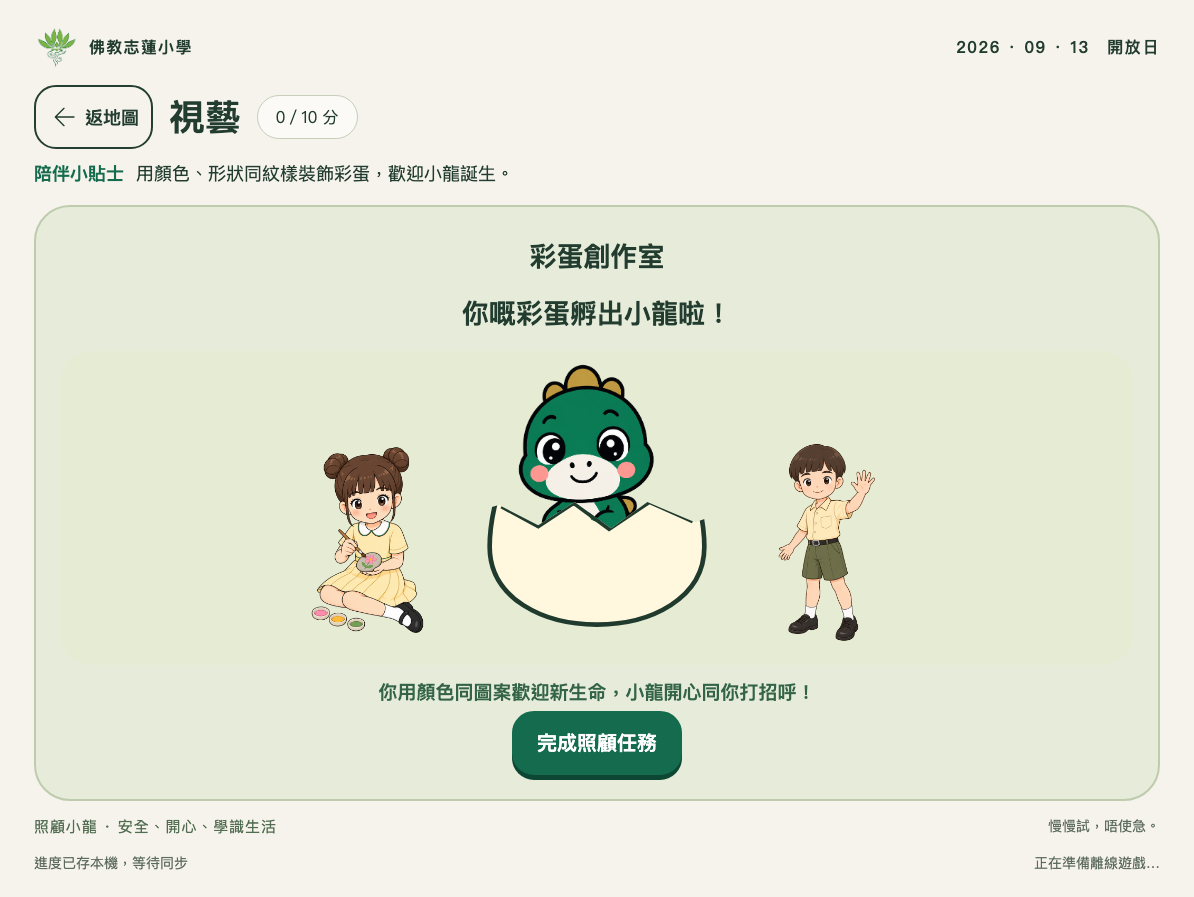
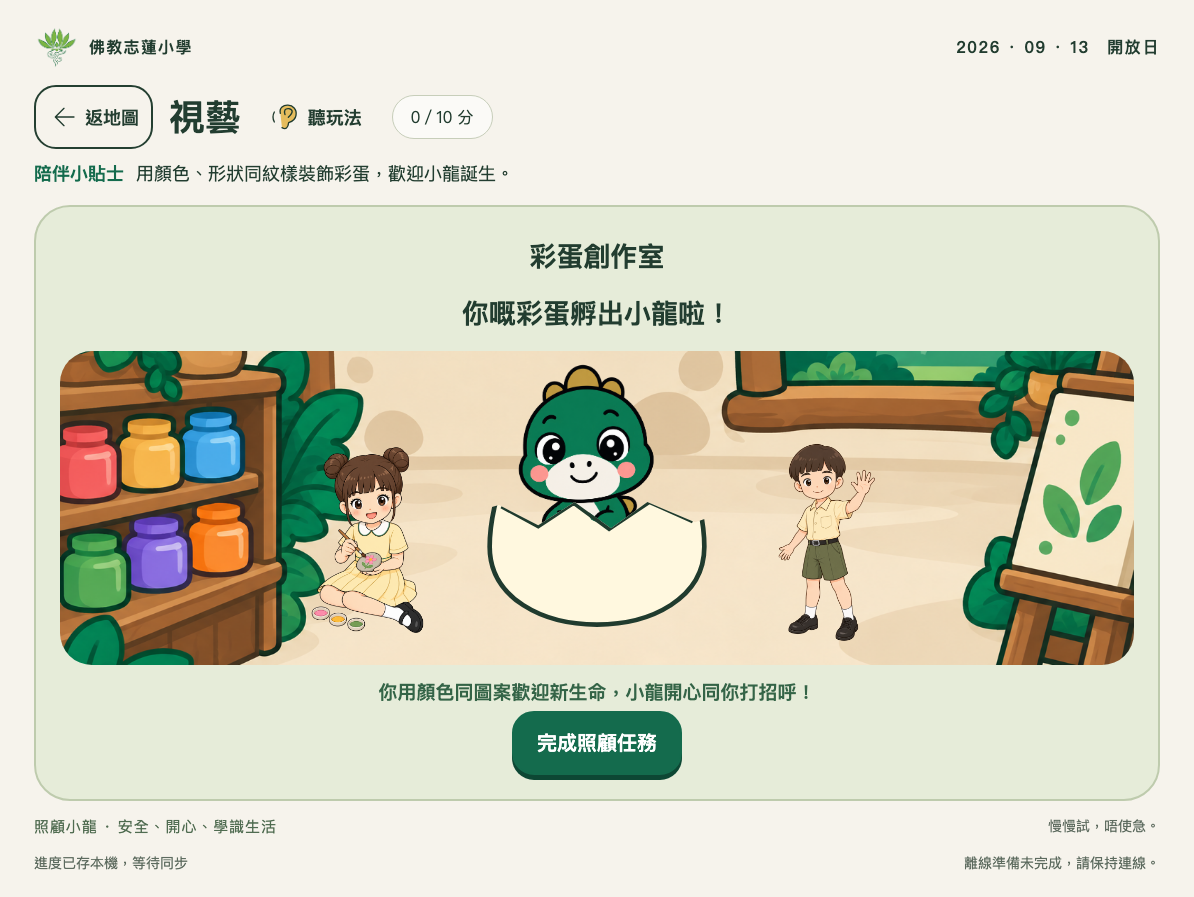
feat: add egg art studio and requested creative tools

diff --git a/hub/modules/art.js b/hub/modules/art.js
@@ -1,9 +1,13 @@
 import {icon} from '../../shared/icons.js';
-const palette=[['#146b4d','森綠'],['#e5bc5d','金黃'],['#ee937c','珊瑚紅'],['#7fc9db','天藍'],['#a699cd','紫色'],['#f6f3ec','奶油白']];
+const palette=[['#146b4d','森綠'],['#e5bc5d','金黃'],['#ee937c','珊瑚紅'],['#7fc9db','天藍'],['#a699cd','紫色'],['#f6f3ec','奶油白'],['#efab65','橙色']];
 const shapes={circle:'<circle r="22"/>',square:'<rect x="-21" y="-21" width="42" height="42" rx="3"/>',triangle:'<path d="M0-25L25 20H-25Z"/>',heart:'<path d="M0 23C-50-6-18-39 0-17C18-39 50-6 0 23Z"/>'};
 const patterns={dots:'<circle cx="-12" cy="-12" r="6"/><circle cx="12" cy="12" r="6"/><circle cx="12" cy="-12" r="6"/><circle cx="-12" cy="12" r="6"/>',stripes:'<path d="M-22-18H22M-22 0H22M-22 18H22" fill="none" stroke="currentColor" stroke-width="7"/>',waves:'<path d="M-24-12q12-16 24 0t24 0M-24 12q12-16 24 0t24 0" fill="none" stroke="currentColor" stroke-width="6"/>',zigzag:'<path d="M-24-18L-8-4L8-18L24-4M-24 6L-8 20L8 6L24 20" fill="none" stroke="currentColor" stroke-width="6"/>'};
 const stamps={star:'<path d="M0-25L7-8L25-6L12 7L15 25L0 16L-15 25L-12 7L-25-6L-7-8Z"/>',leaf:'<path d="M-20 22Q-30-30 24-23Q30 29-20 22Z"/>',flower:'<circle cx="0" cy="-14" r="11"/><circle cx="14" cy="0" r="11"/><circle cx="0" cy="14" r="11"/><circle cx="-14" cy="0" r="11"/><circle r="7" fill="#f6f3ec"/>',footprint:'<ellipse cy="10" rx="14" ry="12"/><ellipse cx="-15" cy="-10" rx="6" ry="8"/><ellipse cy="-17" rx="6" ry="8"/><ellipse cx="15" cy="-10" rx="6" ry="8"/>'};
-const labels={circle:'圓形',square:'正方形',triangle:'三角形',heart:'心形',dots:'圓點',stripes:'橫紋',waves:'波浪',zigzag:'鋸齒紋',star:'星星',leaf:'葉子',flower:'花朵',footprint:'龍腳印'};
+shapes.star=stamps.star;
+stamps.volcano='<path d="M-26 24L-9-10H9L26 24Z"/><path d="M-8-16Q-16-25-7-29M7-16Q15-25 6-29" fill="none" stroke="currentColor" stroke-width="4" stroke-linecap="round"/>';
+// Keep earlier saved white, heart and flower marks renderable; offer the requested tools.
+const toolIds={shape:['circle','triangle','square','star'],pattern:Object.keys(patterns),stamp:['footprint','leaf','volcano','star']};
+const labels={circle:'圓形',square:'正方形',triangle:'三角形',volcano:'火山',heart:'心形',dots:'圓點',stripes:'橫紋',waves:'波浪',zigzag:'鋸齒紋',star:'星星',leaf:'葉子',flower:'花朵',footprint:'龍腳印'};
 const eggPath='M150 15C91 15 35 123 35 197C35 308 265 308 265 197C265 123 209 15 150 15Z';
 const glyph=(type,id)=>({shape:shapes,pattern:patterns,stamp:stamps}[type]?.[id]||'');
 const preview=(type,id)=>`<svg viewBox="-32 -32 64 64" aria-hidden="true" fill="currentColor">${glyph(type,id)}</svg>`;
@@ -13,10 +17,10 @@ export function mountArt(root,state,save,finish){
  let live=true,pointer=null,pending=null,timer=null,animating=false;
  function cancel(){pointer=null;pending=null;root.querySelector('#art-pending')?.replaceChildren();}
  function render(){
-  cancel();root.innerHTML=`<h2 class="game-instruction">彩蛋創作室</h2><p class="game-instruction">${state.hatched?'你嘅彩蛋孵出小龍啦！':'揀顏色，用手指畫一畫，再加形狀、紋樣同印章。'}</p><div class="egg-studio"><img class="character egg-guide" src="img/chars/xiaolian-color.png" alt="小蓮陪你裝飾彩蛋"><div class="egg-artwork ${state.hatched?'has-hatched':''}">${state.hatched?'<img class="character hatch-dino" src="img/chars/dino-baby.png" alt="彩蛋孵出開心小龍">':''}<svg id="egg-canvas" viewBox="0 0 300 310" role="img" aria-label="手指裝飾恐龍蛋"><defs><clipPath id="egg-clip"><path d="${eggPath}"/></clipPath></defs><path id="egg-surface" d="${eggPath}" fill="#fff8df"/><g clip-path="url(#egg-clip)"><g id="art-marks">${state.marks.map(markSVG).join('')}</g><g id="art-pending"></g></g><path d="${eggPath}" fill="none" stroke="#203b2e" stroke-width="5"/><path class="egg-crack" d="M48 153L87 174L125 149L163 177L206 148L253 169" fill="none" stroke="#203b2e" stroke-width="6"/></svg></div><img class="character egg-guide" src="img/chars/xiaozhi-highfive.png" alt="小志期待小龍出蛋"></div>${state.hatched?'<p class="feedback" role="status">你用顏色同圖案歡迎新生命，小龍開心同你打招呼！</p><div class="actions"><button class="primary" id="art-finish">完成照顧任務</button></div>':`<div class="art-colors" aria-label="六色畫具">${palette.map(([color,label],i)=>`<button data-art-color="${i}" aria-label="${label}" aria-pressed="${i===state.color}" style="background:${color}">${i===state.color?'✓':''}</button>`).join('')}</div><div class="actions art-modes">${[['brush','畫筆'],['shape','形狀'],['pattern','紋樣'],['stamp','印章']].map(([id,label])=>`<button data-art-mode="${id}" aria-pressed="${state.mode===id}">${id==='brush'?icon('paint'):preview(id,Object.keys({shape:shapes,pattern:patterns,stamp:stamps}[id])[0])}${label}</button>`).join('')}</div><div class="art-tools">${state.mode==='brush'?'<p>手指按住蛋殼，慢慢畫。</p>':Object.keys({shape:shapes,pattern:patterns,stamp:stamps}[state.mode]).map(id=>`<button data-art-item="${id}" aria-label="${labels[id]}" aria-pressed="${state.item===id}">${preview(state.mode,id)}<span>${labels[id]}</span></button>`).join('')}</div><p class="feedback" role="status">自由揀顏色，冇標準答案。至少畫一筆，再同小龍打招呼。</p><div class="actions"><button id="art-undo" ${state.marks.length?'':'disabled'}>復原一筆</button><button id="art-clear" ${state.marks.length?'':'disabled'}>清除全部</button><button class="primary" id="art-hatch" ${state.marks.length?'':'disabled'}>彩蛋孵化</button></div>`}`;
+  cancel();root.innerHTML=`<h2 class="game-instruction">彩蛋創作室</h2><p class="game-instruction">${state.hatched?'你嘅彩蛋孵出小龍啦！':'揀顏色，用手指畫一畫，再加形狀、紋樣同印章。'}</p><div class="egg-studio"><img class="character egg-guide" src="img/chars/xiaolian-color.png" alt="小蓮陪你裝飾彩蛋"><div class="egg-artwork ${state.hatched?'has-hatched':''}">${state.hatched?'<img class="character hatch-dino" src="img/chars/dino-baby.png" alt="彩蛋孵出開心小龍">':''}<svg id="egg-canvas" viewBox="0 0 300 310" role="img" aria-label="手指裝飾恐龍蛋"><defs><clipPath id="egg-clip"><path d="${eggPath}"/></clipPath></defs><path id="egg-surface" d="${eggPath}" fill="#fff8df"/><g clip-path="url(#egg-clip)"><g id="art-marks">${state.marks.map(markSVG).join('')}</g><g id="art-pending"></g></g><path d="${eggPath}" fill="none" stroke="#203b2e" stroke-width="5"/><path class="egg-crack" d="M48 153L87 174L125 149L163 177L206 148L253 169" fill="none" stroke="#203b2e" stroke-width="6"/></svg></div><img class="character egg-guide" src="img/chars/xiaozhi-highfive.png" alt="小志期待小龍出蛋"></div>${state.hatched?'<p class="feedback" role="status">你用顏色同圖案歡迎新生命，小龍開心同你打招呼！</p><div class="actions"><button class="primary" id="art-finish">完成照顧任務</button></div>':`<div class="art-colors" aria-label="六色畫具">${[2,1,3,0,4,6].map(i=>{const [color,label]=palette[i];return `<button data-art-color="${i}" aria-label="${label}" aria-pressed="${i===state.color}" style="background:${color}">${i===state.color?'✓':''}</button>`;}).join('')}</div><div class="actions art-modes">${[['brush','畫筆'],['shape','形狀'],['pattern','紋樣'],['stamp','印章']].map(([id,label])=>`<button data-art-mode="${id}" aria-pressed="${state.mode===id}">${id==='brush'?icon('paint'):preview(id,toolIds[id][0])}${label}</button>`).join('')}</div><div class="art-tools">${state.mode==='brush'?'<p>手指按住蛋殼，慢慢畫。</p>':toolIds[state.mode].map(id=>`<button data-art-item="${id}" aria-label="${labels[id]}" aria-pressed="${state.item===id}">${preview(state.mode,id)}<span>${labels[id]}</span></button>`).join('')}</div><p class="feedback" role="status">自由揀顏色，冇標準答案。至少畫一筆，再同小龍打招呼。</p><div class="actions"><button id="art-undo" ${state.marks.length?'':'disabled'}>復原一筆</button><button id="art-clear" ${state.marks.length?'':'disabled'}>清除全部</button><button class="primary" id="art-hatch" ${state.marks.length?'':'disabled'}>彩蛋孵化</button></div>`}`;
   if(state.hatched){root.querySelector('#art-finish').onclick=()=>{if(live){live=false;finish();}};return;}
   root.querySelectorAll('[data-art-color]').forEach(b=>b.onclick=()=>{state.color=Number(b.dataset.artColor);save();render();});
-  root.querySelectorAll('[data-art-mode]').forEach(b=>b.onclick=()=>{state.mode=b.dataset.artMode;state.item=state.mode==='brush'?'':Object.keys({shape:shapes,pattern:patterns,stamp:stamps}[state.mode])[0];save();render();});
+  root.querySelectorAll('[data-art-mode]').forEach(b=>b.onclick=()=>{state.mode=b.dataset.artMode;state.item=state.mode==='brush'?'':toolIds[state.mode][0];save();render();});
   root.querySelectorAll('[data-art-item]').forEach(b=>b.onclick=()=>{state.item=b.dataset.artItem;save();render();});
   root.querySelector('#art-undo').onclick=()=>{state.marks.pop();save();render();};
   root.querySelector('#art-clear').onclick=()=>{state.marks=[];save();render();};

diff --git a/sw.js b/sw.js
@@ -1,7 +1,7 @@
 // Generated precache manifest. Rebuild whenever local assets change.
-const CACHE='dino-island-9fe42da91613';
+const CACHE='dino-island-b6a5a6f61c4b';
 const BASE=new URL('./',self.location.href);
-const ASSETS=["board/board.css","board/board.js","board/img/board-skin.png","board/index.html","hub/app.js","hub/audio/en/actions/freeze.wav","hub/audio/en/actions/hands.wav","hub/audio/en/actions/jump.wav","hub/audio/en/actions/left.wav","hub/audio/en/actions/right.wav","hub/audio/en/actions/sit.wav","hub/audio/en/actions/stand.wav","hub/audio/yue/actions/freeze.wav","hub/audio/yue/actions/hands.wav","hub/audio/yue/actions/left.wav","hub/audio/yue/actions/right.wav","hub/audio/yue/actions/sit.wav","hub/audio/yue/characters/fire.wav","hub/audio/yue/characters/moon.wav","hub/audio/yue/characters/mountain.wav","hub/audio/yue/characters/sun.wav","hub/audio/yue/characters/water.wav","hub/audio/yue/characters/wood.wav","hub/audio/yue/common/complete.wav","hub/audio/yue/common/hint.wav","hub/audio/yue/common/retry.wav","hub/audio/yue/common/welcome.wav","hub/audio/yue/intro/art.wav","hub/audio/yue/intro/chinese.wav","hub/audio/yue/intro/computing.wav","hub/audio/yue/intro/english.wav","hub/audio/yue/intro/general.wav","hub/audio/yue/intro/humanities.wav","hub/audio/yue/intro/mandarin.wav","hub/audio/yue/intro/math.wav","hub/audio/yue/intro/music.wav","hub/audio/yue/intro/pe.wav","hub/audio/yue/intro/science.wav","hub/audio/zh-CN/greetings/goodbye.wav","hub/audio/zh-CN/greetings/hello.wav","hub/audio/zh-CN/greetings/morning.wav","hub/audio/zh-CN/greetings/please.wav","hub/audio/zh-CN/greetings/thanks.wav","hub/audio/zh-CN/greetings/welcome.wav","hub/certificate.js","hub/games.js","hub/img/chars/dino-baby-eat.png","hub/img/chars/dino-baby-sleep.png","hub/img/chars/dino-baby.png","hub/img/chars/landmark-hatch.png","hub/img/chars/landmark-longneck.png","hub/img/chars/landmark-triceratops.png","hub/img/chars/xiaolian-clap.png","hub/img/chars/xiaolian-color.png","hub/img/chars/xiaolian-highfive.png","hub/img/chars/xiaolian-point.png","hub/img/chars/xiaolian-welcome.png","hub/img/chars/xiaolian-write.png","hub/img/chars/xiaozhi-highfive.png","hub/img/chars/xiaozhi-jump.png","hub/img/chars/xiaozhi-run.png","hub/img/chars/xiaozhi-sit.png","hub/img/chars/xiaozhi-step.png","hub/img/chars/xiaozhi-stretch.png","hub/img/chars/xiaozhi-tablet.png","hub/img/chars/xiaozhi-welcome.png","hub/img/games/general/bedtime.png","hub/img/games/general/daytime.png","hub/img/games/general/morning.png","hub/img/games/humanities/river-centre.png","hub/img/games/humanities/safe-forest.png","hub/img/games/humanities/volcano-edge.png","hub/img/games/math/feeding-garden.png","hub/img/games/science/excavation.png","hub/img/map/island-path.png","hub/img/ui/cert-frame.png","hub/index.html","hub/modules/art.js","hub/modules/chinese-scenes.js","hub/modules/computing.js","hub/modules/fossil-art.js","hub/modules/general.js","hub/modules/humanities.js","hub/modules/mandarin.js","hub/modules/math.js","hub/modules/motion.js","hub/modules/music.js","hub/modules/science.js","hub/park-guides.js","index.html","setup/index.html","shared/certificate-link.js","shared/config.js","shared/core.js","shared/game-clock-gate.js","shared/game-state.js","shared/icons.js","shared/img/school-logo.png","shared/models/pose-landmarker-lite-v1.task","shared/network.js","shared/offline.js","shared/pose-actions.js","shared/pose-camera.js","shared/qrcode.js","shared/recorder.js","shared/sequence.js","shared/storage.js","shared/style.css","shared/vendor/mediapipe/vision-bundle.js","shared/vendor/mediapipe/wasm/vision_wasm_internal.js","shared/vendor/mediapipe/wasm/vision_wasm_internal.wasm","shared/vendor/mediapipe/wasm/vision_wasm_nosimd_internal.js","shared/vendor/mediapipe/wasm/vision_wasm_nosimd_internal.wasm","shared/voice.js","hub/","board/","setup/"].map(p=>new URL(p,BASE).href);
+const ASSETS=["board/board.css","board/board.js","board/img/board-skin.png","board/index.html","hub/app.js","hub/audio/en/actions/freeze.wav","hub/audio/en/actions/hands.wav","hub/audio/en/actions/jump.wav","hub/audio/en/actions/left.wav","hub/audio/en/actions/right.wav","hub/audio/en/actions/sit.wav","hub/audio/en/actions/stand.wav","hub/audio/yue/actions/freeze.wav","hub/audio/yue/actions/hands.wav","hub/audio/yue/actions/left.wav","hub/audio/yue/actions/right.wav","hub/audio/yue/actions/sit.wav","hub/audio/yue/characters/fire.wav","hub/audio/yue/characters/moon.wav","hub/audio/yue/characters/mountain.wav","hub/audio/yue/characters/sun.wav","hub/audio/yue/characters/water.wav","hub/audio/yue/characters/wood.wav","hub/audio/yue/common/complete.wav","hub/audio/yue/common/hint.wav","hub/audio/yue/common/retry.wav","hub/audio/yue/common/welcome.wav","hub/audio/yue/intro/art.wav","hub/audio/yue/intro/chinese.wav","hub/audio/yue/intro/computing.wav","hub/audio/yue/intro/english.wav","hub/audio/yue/intro/general.wav","hub/audio/yue/intro/humanities.wav","hub/audio/yue/intro/mandarin.wav","hub/audio/yue/intro/math.wav","hub/audio/yue/intro/music.wav","hub/audio/yue/intro/pe.wav","hub/audio/yue/intro/science.wav","hub/audio/zh-CN/greetings/goodbye.wav","hub/audio/zh-CN/greetings/hello.wav","hub/audio/zh-CN/greetings/morning.wav","hub/audio/zh-CN/greetings/please.wav","hub/audio/zh-CN/greetings/thanks.wav","hub/audio/zh-CN/greetings/welcome.wav","hub/certificate.js","hub/games.js","hub/img/chars/dino-baby-eat.png","hub/img/chars/dino-baby-sleep.png","hub/img/chars/dino-baby.png","hub/img/chars/landmark-hatch.png","hub/img/chars/landmark-longneck.png","hub/img/chars/landmark-triceratops.png","hub/img/chars/xiaolian-clap.png","hub/img/chars/xiaolian-color.png","hub/img/chars/xiaolian-highfive.png","hub/img/chars/xiaolian-point.png","hub/img/chars/xiaolian-welcome.png","hub/img/chars/xiaolian-write.png","hub/img/chars/xiaozhi-highfive.png","hub/img/chars/xiaozhi-jump.png","hub/img/chars/xiaozhi-run.png","hub/img/chars/xiaozhi-sit.png","hub/img/chars/xiaozhi-step.png","hub/img/chars/xiaozhi-stretch.png","hub/img/chars/xiaozhi-tablet.png","hub/img/chars/xiaozhi-welcome.png","hub/img/games/art/egg-studio.png","hub/img/games/general/bedtime.png","hub/img/games/general/daytime.png","hub/img/games/general/morning.png","hub/img/games/humanities/river-centre.png","hub/img/games/humanities/safe-forest.png","hub/img/games/humanities/volcano-edge.png","hub/img/games/math/feeding-garden.png","hub/img/games/science/excavation.png","hub/img/map/island-path.png","hub/img/ui/cert-frame.png","hub/index.html","hub/modules/art.js","hub/modules/chinese-scenes.js","hub/modules/computing.js","hub/modules/fossil-art.js","hub/modules/general.js","hub/modules/humanities.js","hub/modules/mandarin.js","hub/modules/math.js","hub/modules/motion.js","hub/modules/music.js","hub/modules/science.js","hub/park-guides.js","index.html","setup/index.html","shared/certificate-link.js","shared/config.js","shared/core.js","shared/game-clock-gate.js","shared/game-state.js","shared/icons.js","shared/img/school-logo.png","shared/models/pose-landmarker-lite-v1.task","shared/network.js","shared/offline.js","shared/pose-actions.js","shared/pose-camera.js","shared/qrcode.js","shared/recorder.js","shared/sequence.js","shared/storage.js","shared/style.css","shared/vendor/mediapipe/vision-bundle.js","shared/vendor/mediapipe/wasm/vision_wasm_internal.js","shared/vendor/mediapipe/wasm/vision_wasm_internal.wasm","shared/vendor/mediapipe/wasm/vision_wasm_nosimd_internal.js","shared/vendor/mediapipe/wasm/vision_wasm_nosimd_internal.wasm","shared/voice.js","hub/","board/","setup/"].map(p=>new URL(p,BASE).href);
 self.addEventListener('install',e=>e.waitUntil(caches.open(CACHE).then(c=>c.addAll(ASSETS))));
 self.addEventListener('activate',e=>e.waitUntil(Promise.all([caches.keys().then(keys=>Promise.all(keys.filter(k=>k.startsWith('dino-island-')&&k!==CACHE).map(k=>caches.delete(k)))),self.clients.claim()])));
 self.addEventListener('message',e=>{if(e.data?.type!=='CHECK_OFFLINE'||!e.ports[0])return;e.waitUntil(caches.open(CACHE).then(async c=>{const present=await Promise.all(ASSETS.map(url=>c.match(url)));e.ports[0].postMessage({type:'OFFLINE_STATUS',version:CACHE,complete:present.every(Boolean),missing:present.filter(r=>!r).length,total:ASSETS.length});}).catch(()=>e.ports[0].postMessage({type:'OFFLINE_STATUS',complete:false,missing:ASSETS.length,total:ASSETS.length})));});

diff --git a/shared/style.css b/shared/style.css
@@ -43,7 +43,7 @@
 .band-stage{display:flex;justify-content:center;gap:20px;padding:20px;background:#e4ebd4;border-radius:36px}.band-player{display:flex;flex-direction:column;align-items:center;width:230px;background:#f6f3ec;border:4px solid #146b4d;border-radius:28px;padding:12px;font-size:22px;transition:background .1s,transform .1s}.band-player:disabled{opacity:1;cursor:default}.band-player>.character{width:140px;height:180px;object-fit:contain}.band-instrument .icon{width:80px;height:80px}.band-lit{background:#f8d36e!important;transform:translateY(-7px);box-shadow:0 0 0 6px #b8923a}.band-hint{outline:6px dashed #b8923a;outline-offset:3px}.band-progress{display:flex;justify-content:center;gap:16px;margin:18px}.band-progress>span{display:grid;place-items:center;width:48px;height:48px;border:3px solid #146b4d;border-radius:50%;font-size:24px}.band-progress>.done{background:#b8923a;color:white}
 @media(max-width:600px){.band-stage{gap:8px;padding:10px}.band-player{width:30%;font-size:16px;padding:6px;border-width:3px}.band-player>.character{width:80px;max-width:100%;height:125px}.band-instrument .icon{width:55px;height:55px}}
 
-.egg-studio{display:flex;justify-content:center;align-items:end;gap:20px;background:#e6ebd3;border-radius:32px;padding:12px}.egg-guide{width:135px;height:220px;object-fit:contain}.egg-artwork{width:280px;position:relative}.egg-artwork>svg{display:block;width:100%;touch-action:none}.egg-crack{opacity:0}.art-colors,.art-tools{display:flex;justify-content:center;gap:12px;margin:14px}.art-colors button{width:64px;height:64px;min-width:64px;border-radius:50%;border:3px solid #203b2e;font-size:32px;color:#203b2e}.art-modes button{display:flex;align-items:center;gap:8px}.art-modes svg{width:38px;height:38px}.art-tools button{width:100px;min-height:84px;display:flex;flex-direction:column;align-items:center;font-size:18px}.art-tools svg{width:46px;height:46px}.art-modes [aria-pressed=true],.art-tools [aria-pressed=true]{background:#f5d479;outline:3px solid #b8923a}.art-colors [aria-pressed=true]{outline:4px solid #b8923a;outline-offset:3px}.is-hatching{animation:egg-shake .35s ease-in-out infinite;filter:drop-shadow(0 0 18px #f0cd62)}.is-hatching .egg-crack{animation:egg-crack 2s forwards}.hatch-dino{clip-path:inset(0 0 30% 0);position:absolute;width:80%;height:85%;object-fit:contain;left:10%;top:0;animation:egg-emerge .7s ease-out}.has-hatched>svg{clip-path:polygon(0 53%,15% 49%,29% 56%,42% 48%,55% 57%,68% 48%,85% 55%,100% 50%,100% 100%,0 100%);position:relative}.has-hatched .egg-crack{opacity:1}
+.egg-studio{display:flex;justify-content:center;align-items:end;gap:20px;background:#f6f3ec url('../hub/img/games/art/egg-studio.png') center/cover no-repeat;border-radius:32px;padding:12px}.egg-guide{width:135px;height:220px;object-fit:contain}.egg-artwork{width:280px;position:relative}.egg-artwork>svg{display:block;width:100%;touch-action:none}.egg-crack{opacity:0}.art-colors,.art-tools{display:flex;justify-content:center;gap:12px;margin:14px}.art-colors button{width:64px;height:64px;min-width:64px;border-radius:50%;border:3px solid #203b2e;font-size:32px;color:#203b2e}.art-modes button{display:flex;align-items:center;gap:8px}.art-modes svg{width:38px;height:38px}.art-tools button{width:100px;min-height:84px;display:flex;flex-direction:column;align-items:center;font-size:18px}.art-tools svg{width:46px;height:46px}.art-modes [aria-pressed=true],.art-tools [aria-pressed=true]{background:#f5d479;outline:3px solid #b8923a}.art-colors [aria-pressed=true]{outline:4px solid #b8923a;outline-offset:3px}.is-hatching{animation:egg-shake .35s ease-in-out infinite;filter:drop-shadow(0 0 18px #f0cd62)}.is-hatching .egg-crack{animation:egg-crack 2s forwards}.hatch-dino{clip-path:inset(0 0 30% 0);position:absolute;width:80%;height:85%;object-fit:contain;left:10%;top:0;animation:egg-emerge .7s ease-out}.has-hatched>svg{clip-path:polygon(0 53%,15% 49%,29% 56%,42% 48%,55% 57%,68% 48%,85% 55%,100% 50%,100% 100%,0 100%);position:relative}.has-hatched .egg-crack{opacity:1}
 @keyframes egg-shake{0%,100%{transform:rotate(-3deg)}50%{transform:rotate(3deg)}}@keyframes egg-crack{0%,35%{opacity:0}100%{opacity:1}}@keyframes egg-emerge{from{transform:translateY(45px);opacity:0}to{transform:translateY(0);opacity:1}}
 @media(prefers-reduced-motion:reduce){.is-hatching,.hatch-dino{animation:none}.is-hatching .egg-crack{animation:none;opacity:1}}
 @media(max-width:600px){.egg-studio{gap:4px;padding:8px}.egg-guide{width:55px;height:145px}.egg-artwork{width:205px}.art-colors{gap:8px;flex-wrap:wrap}.art-tools{gap:5px}.art-tools button{width:72px;min-width:64px;padding:5px}.art-modes{gap:8px}.art-modes button{font-size:18px;padding:10px}}

diff --git a/design/game-assets/art-studio-prompt.md b/design/game-assets/art-studio-prompt.md
@@ -1,0 +1,11 @@
+# 彩蛋畫室背景
+
+使用內建 image_gen；以本專案 general/morning.png 作畫風參考。原始輸出直接複製為 hub/img/games/art/egg-studio.png，沒有程式修圖。
+
+## 生成提示
+
+Use case: illustration-story. Create ONE landscape 1536x1024 background asset for the existing Dino Island preschool egg-painting game. Input image is style reference ONLY: match its friendly 2D dark forest-green rounded outlines, soft flat shading, cream walls, warm wood, leafy green details. New scene: a small dinosaur egg art studio inside a forest cottage. Wide front-facing room, with a large clean cream wall and floor in the central 65 percent, completely empty for an interactive egg canvas and character overlays. Along the outer left edge a low wooden shelf with rounded jars of coral red, gold yellow, sky blue, green, violet and orange paint and two broad brushes. Along the outer right edge an easel with a tiny simple leaf pattern and a leafy arched window. Upper corners trailing leaves. Keep decorations peripheral, recognisable large shapes, sparse details, same world as supplied reference. NO characters, dinosaurs, eggs, lettering, numbers, logos, UI controls, watermarks, realistic textures, 3D rendering, scary elements. This is only decorative background; interactive egg and tools are rendered by frontend. Opaque full-bleed landscape PNG.
+
+## 檢查
+
+已檢視：2D 奶油／綠色森林小屋，畫具及畫架放兩旁，中間留白，沒有角色、文字或禁用內容。此項只完成畫室場景，不代表尚欠的角色姿勢完成。

diff --git a/docs/GAME-UPDATE-V2.md b/docs/GAME-UPDATE-V2.md
@@ -202,3 +202,9 @@
 - 加入十一位榜單測試資料，確認 1920×1080 Top 10、時間排序及其餘人數；已檢視完成地圖及榜單截圖。
 - 首輪中文月字失敗源於測試未捲動畫板入可見範圍；逐筆 scrollIntoView 並斷言進度後，六字 23 筆通過，未修改描字判定。報告新增 passed／failed 與 failure。
 - 整套旅程無瀏覽器執行錯誤，42 項單元測試通過。此輪使用 Chromium、受控時鐘、虛擬鏡頭及本機榜，不代表 Google、實際 iPad、兒童動作或十機負載已验收。
+
+## 視藝畫室與指定工具
+- 內建 image_gen 製作 egg-studio.png，跟本專案森林小屋畫風，畫具與畫架留在邊緣，中間供彩蛋及角色操作；原圖直接複製入專案，提示保存 art-studio-prompt.md。
+- 工具盤按需求提供紅、黃、藍、綠、紫、橙；形狀為圓、三角、方、星；印章為腳印、葉、火山、星。舊作品的奶油白／心／花仍可渲染，沒有重寫舊作品。
+- art-browser 驗證六色、指定四形狀及四印章、新背景載入、既有創作／取消／孵化流程與手機寬度。已檢视畫室截圖；素材清單標示場景及向量工具已接入，仍保留未完成姿勢。
+- 建置 118 個離線資產；offline 通過全部 11 路由及素材、離線重開、補傳佇列、普通證書及專案子路徑。正式站未更新。
